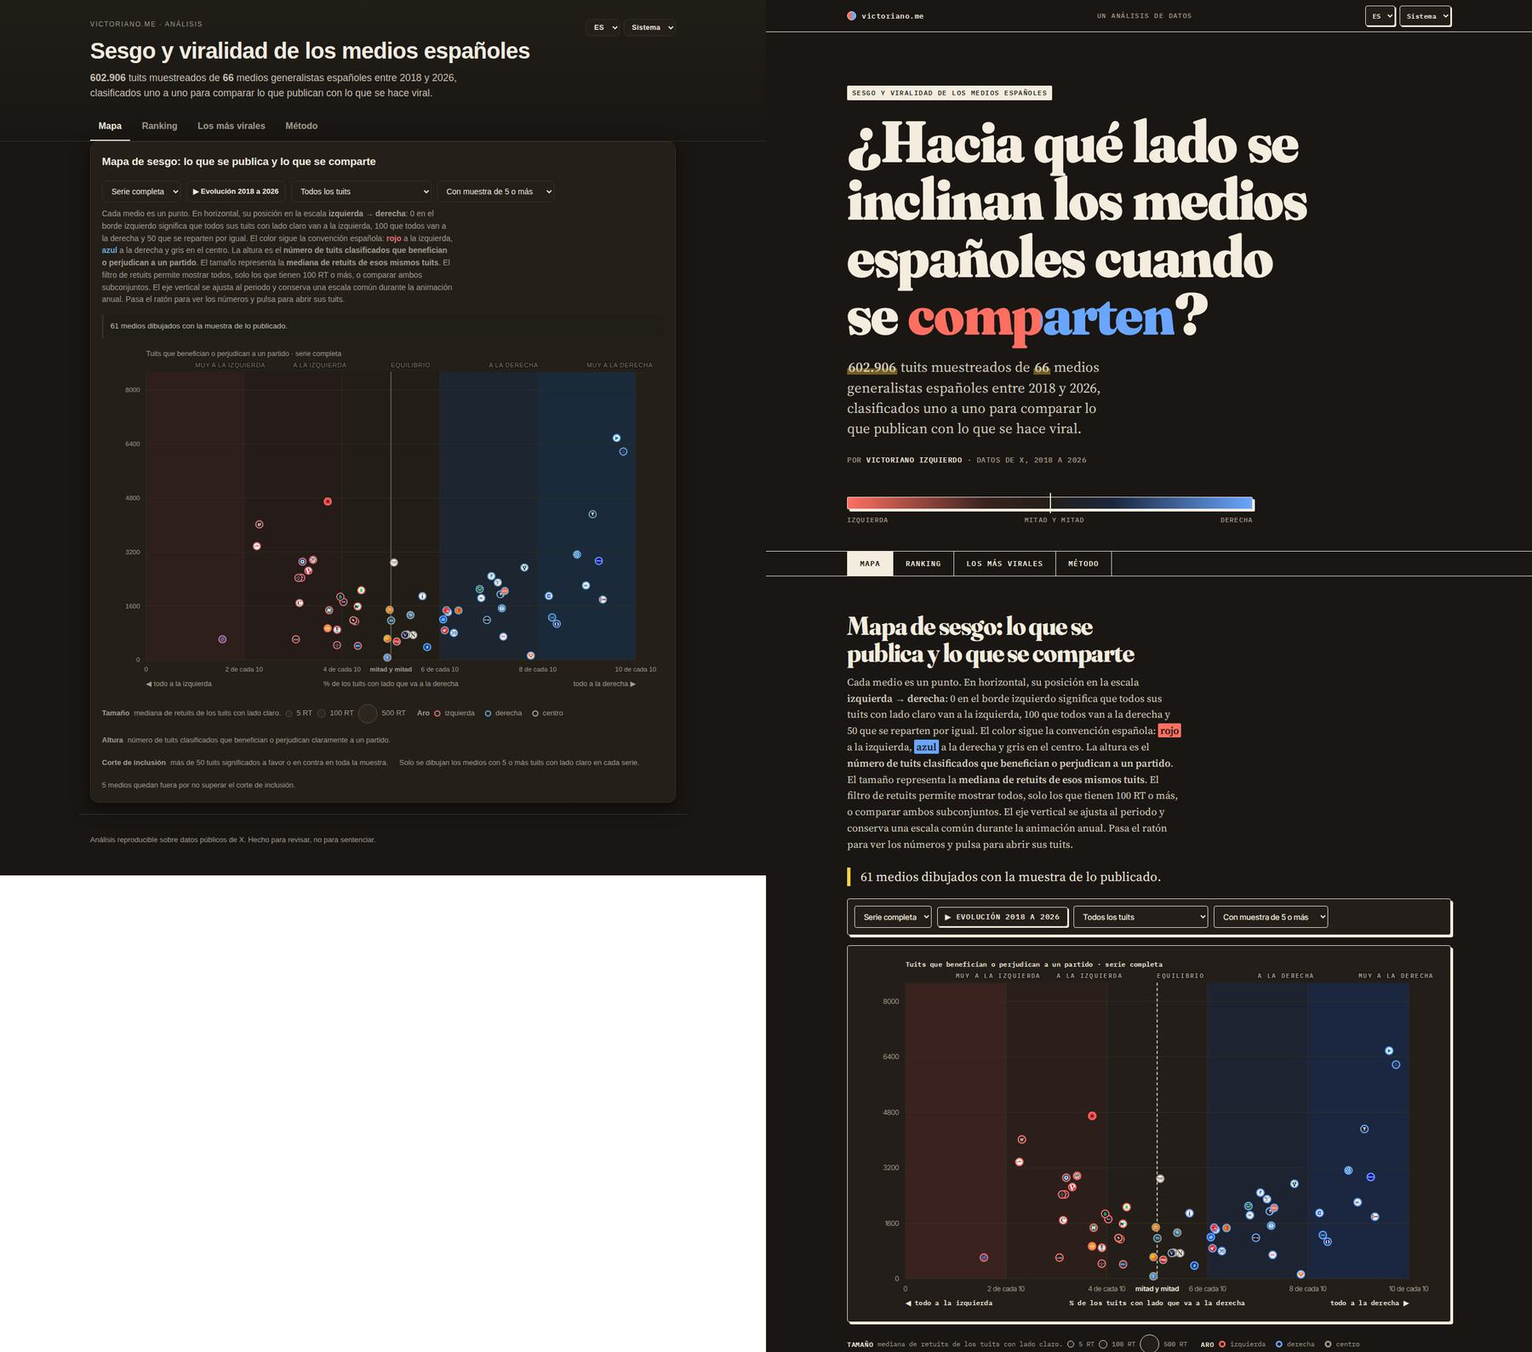
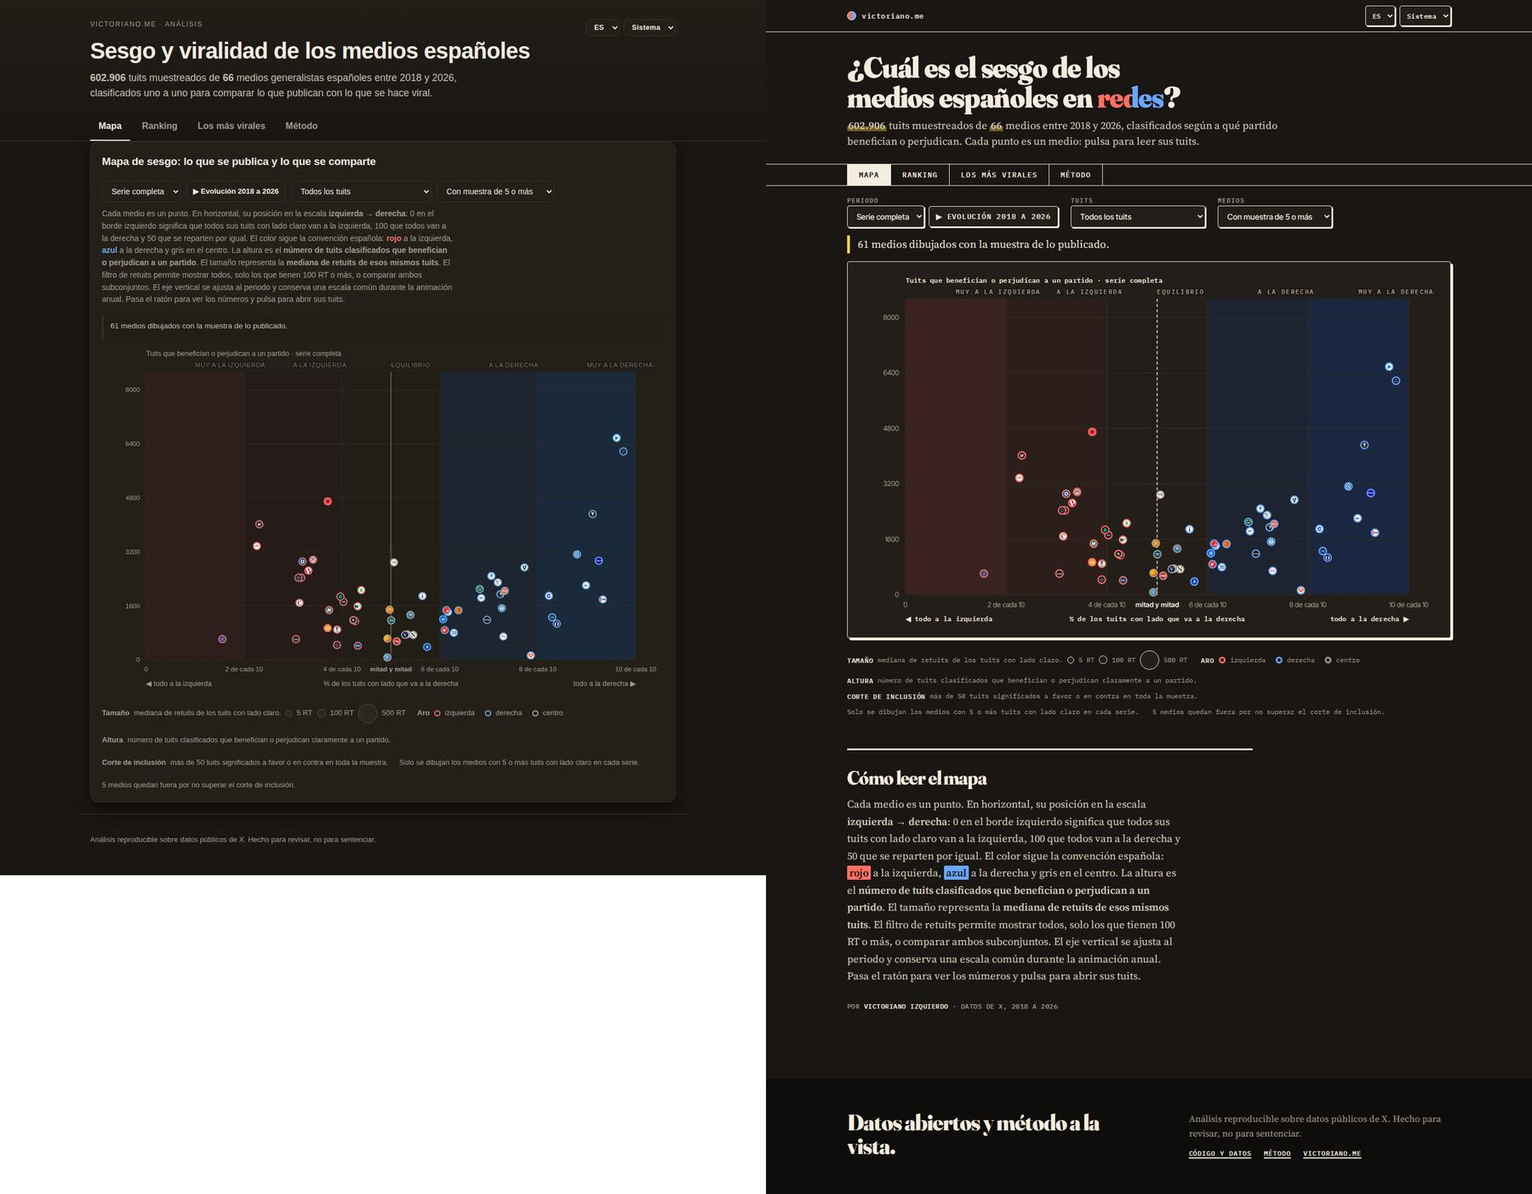
Poner el mapa arriba y simplificar la portada
Titular nuevo («¿Cuál es el sesgo de los medios españoles en redes?»),
portada compacta y el mapa justo debajo de la navegación, con sus
controles etiquetados. La explicación del mapa pasa debajo de la gráfica.
El botón de volver regresa a la vista desde la que se abrió el medio y en
móvil el mapa se abre centrado.

Claude-Session: https://claude.ai/code/session_01NCLMM52ZhGMMAiz7yiGyxW

diff --git a/site/index.html b/site/index.html
@@ -35,13 +35,12 @@
 <link rel="icon" href="favicon.svg" type="image/svg+xml">
 <link rel="preload" href="fonts/fraunces-normal-400-900.woff2" as="font" type="font/woff2" crossorigin>
 <link rel="stylesheet" href="fonts.css?v=202610051200">
-<link rel="stylesheet" href="styles.css?v=202610051200">
+<link rel="stylesheet" href="styles.css?v=202610051330">
 </head>
 <body>
 <header class="mast">
   <div class="wrap mast-bar">
     <a class="marca" href="https://victoriano.me">victoriano.me</a>
-    <p class="kicker" data-i18n="kicker">victoriano.me · análisis</p>
     <div class="prefs" role="group">
       <label class="sr-only" for="lang-select" data-i18n="ariaLang">Idioma</label>
       <select id="lang-select" class="pref-select" data-i18n-aria="ariaLang" aria-label="Idioma">
@@ -60,14 +59,8 @@
 
 <section class="hero">
   <div class="wrap">
-    <p class="kicker"><span data-i18n="heroTag">Medios y redes</span></p>
-    <h1 data-i18n-html="headline">Sesgo y viralidad de los medios españoles</h1>
-    <p class="lede" id="lede"><strong id="n-virales">602.906</strong> tuits muestreados de <strong id="n-medios">66</strong> medios generalistas españoles entre 2018 y 2026, clasificados uno a uno para comparar lo que publican con lo que se hace viral.</p>
-    <p class="byline" data-i18n-html="byline">Por <strong>Victoriano Izquierdo</strong> · Datos de X, 2018 a 2026</p>
-    <div class="espectro" aria-hidden="true">
-      <div class="espectro-barra"></div>
-      <div class="espectro-pie"><span data-i18n="espectroIzq">Izquierda</span><span data-i18n="espectroMitad">Mitad y mitad</span><span data-i18n="espectroDer">Derecha</span></div>
-    </div>
+    <h1 data-i18n-html="headline">¿Cuál es el sesgo de los medios españoles en redes?</h1>
+    <p class="lede" id="lede"><strong id="n-virales">602.906</strong> tuits muestreados de <strong id="n-medios">66</strong> medios entre 2018 y 2026, clasificados según a qué partido benefician o perjudican. Cada punto es un medio: pulsa para leer sus tuits.</p>
   </div>
 </section>
 
@@ -118,16 +111,9 @@
 
   <!-- ============ MAPA ============ -->
   <section id="view-mapa" class="view">
-    <div class="panel">
-      <div class="panel-head">
-        <h2 data-i18n="mapaTitle">Mapa de sesgo: lo que se publica y lo que se comparte</h2>
-      </div>
-      <p class="hint" data-i18n-html="mapaHint">
-        Cada medio es un punto. En horizontal, su posición en la escala <strong>izquierda → derecha</strong>: 0 en el borde izquierdo significa que todos sus tuits con lado claro van a la izquierda, 100 que todos van a la derecha y 50 que se reparten por igual. El color sigue la convención española: <span class="rojo">rojo</span> a la izquierda, <span class="azul">azul</span> a la derecha y gris en el centro. La altura es el <strong>número de tuits clasificados que benefician o perjudican a un partido</strong>. El tamaño representa la <strong>mediana de retuits de esos mismos tuits</strong>. El filtro de retuits permite mostrar todos, solo los que tienen 100 RT o más, o comparar ambos subconjuntos. El eje vertical se ajusta al periodo y conserva una escala común durante la animación anual. Pasa el ratón para ver los números y pulsa para abrir sus tuits.
-      </p>
-      <p class="resumen" id="mapa-resumen"></p>
+    <div class="panel panel-mapa">
       <div class="panel-controles">
-          <select id="mapa-periodo" data-i18n-aria="ariaPeriodo" aria-label="Periodo de la serie histórica">
+        <div class="ctl"><span class="ctl-k" data-i18n="ctlPeriodo">Periodo</span><div class="ctl-v"><select id="mapa-periodo" data-i18n-aria="ariaPeriodo" aria-label="Periodo de la serie histórica">
             <option value="todo" selected data-i18n="mapaPeriodoAll">Serie completa</option>
             <option value="xv" data-i18n="mapaPeriodoXV">XV Legislatura</option>
             <option value="2018">2018</option>
@@ -140,30 +126,38 @@
             <option value="2025">2025</option>
             <option value="2026">2026</option>
           </select>
-          <button type="button" id="mapa-play" class="mapa-play" data-i18n-aria="ariaPlay" aria-label="Reproducir evolución anual">▶ Evolución 2018 a 2026</button>
-          <select id="mapa-serie" data-i18n-aria="ariaSerie" aria-label="Filtro de retuits del mapa">
+        <button type="button" id="mapa-play" class="mapa-play" data-i18n-aria="ariaPlay" aria-label="Reproducir evolución anual">▶ Evolución 2018 a 2026</button></div></div>
+        <label class="ctl"><span class="ctl-k" data-i18n="ctlTuits">Tuits</span><select id="mapa-serie" data-i18n-aria="ariaSerie" aria-label="Filtro de retuits del mapa">
             <option value="ambas" data-i18n="mapaSerieAmbas">Comparar todos y 100 RT o más</option>
             <option value="publicado" selected data-i18n="mapaSeriePub">Todos los tuits</option>
             <option value="viral" data-i18n="mapaSerieViral">100 RT o más</option>
-          </select>
-          <select id="mapa-filtro" data-i18n-aria="ariaFiltro" aria-label="Filtrar por tamaño de muestra">
+          </select></label>
+        <label class="ctl"><span class="ctl-k" data-i18n="ctlMuestra">Medios</span><select id="mapa-filtro" data-i18n-aria="ariaFiltro" aria-label="Filtrar por tamaño de muestra">
             <option value="5" selected data-i18n="mapaFiltro5">Con muestra de 5 o más</option>
             <option value="0" data-i18n="mapaFiltro0">Todos los medios</option>
             <option value="15" data-i18n="mapaFiltro15">Con muestra de 15 o más</option>
             <option value="30" data-i18n="mapaFiltro30">Con muestra de 30 o más</option>
-          </select>
-        </div>
+          </select></label>
+      </div>
+      <p class="resumen" id="mapa-resumen"></p>
       <div class="chart-wrap">
         <svg id="mapa" role="img" data-i18n-aria="ariaMapDesc" aria-label="Dispersión de medios por posición en la escala izquierda-derecha, con lo publicado y lo viral y una flecha hacia donde se desplaza cada medio al compartirse"></svg>
         <div class="tip" id="mapa-tip" hidden></div>
       </div>
       <div class="mapa-pie" id="mapa-pie"></div>
     </div>
+    <div class="panel prose historia">
+      <h2 data-i18n="mapaTitle">Cómo leer el mapa</h2>
+      <p class="hint" data-i18n-html="mapaHint">
+        Cada medio es un punto. En horizontal, su posición en la escala <strong>izquierda → derecha</strong>: 0 en el borde izquierdo significa que todos sus tuits con lado claro van a la izquierda, 100 que todos van a la derecha y 50 que se reparten por igual. El color sigue la convención española: <span class="rojo">rojo</span> a la izquierda, <span class="azul">azul</span> a la derecha y gris en el centro. La altura es el <strong>número de tuits clasificados que benefician o perjudican a un partido</strong>. El tamaño representa la <strong>mediana de retuits de esos mismos tuits</strong>. El filtro de retuits permite mostrar todos, solo los que tienen 100 RT o más, o comparar ambos subconjuntos. El eje vertical se ajusta al periodo y conserva una escala común durante la animación anual. Pasa el ratón para ver los números y pulsa para abrir sus tuits.
+      </p>
+      <p class="byline" data-i18n-html="byline">Por <strong>Victoriano Izquierdo</strong> · Datos de X, 2018 a 2026</p>
+    </div>
   </section>
 
   <!-- ============ MEDIO ============ -->
   <section id="view-medio" class="view" hidden>
-    <button class="back" id="back" data-i18n="backRanking">← Volver al ranking</button>
+    <button class="back" id="back" data-i18n="backRanking">← Volver</button>
     <div class="panel" id="medio-panel"></div>
   </section>
 
@@ -229,6 +223,6 @@
   </div>
 </footer>
 
-<script src="app.js?v=202610051200"></script>
+<script src="app.js?v=202610051330"></script>
 </body>
 </html>

diff --git a/site/styles.css b/site/styles.css
@@ -77,35 +77,19 @@ a:hover{background:var(--hl);color:var(--hl-ink)}
   font:600 12px/1 var(--f-mono);letter-spacing:.04em;cursor:pointer;box-shadow:var(--sombra-s)}
 .pref-select:hover{background:var(--hl);color:var(--hl-ink)}
 
-/* ---------- portada ---------- */
-.hero{padding:clamp(40px,7vw,96px) 0 clamp(28px,4vw,48px)}
-.hero .kicker{margin-bottom:22px}
-.hero .kicker span{display:inline-block;background:var(--ink);color:var(--bg);padding:5px 9px;border-radius:2px}
-h1{margin:0 0 26px;font-family:var(--f-display);font-weight:900;font-size:clamp(42px,8.2vw,104px);line-height:.98;
-  letter-spacing:-.022em;word-spacing:.04em;font-variation-settings:"opsz" 144,"SOFT" 50;max-width:13ch;text-wrap:balance}
-/* la palabra que se comparte, partida en rojo y azul */
+/* ---------- portada ----------
+   Compacta a propósito: quien abre el enlace tiene que ver el mapa sin hacer scroll. */
+.hero{padding:clamp(22px,3vw,36px) 0 clamp(18px,2.4vw,26px)}
+h1{margin:0 0 10px;font-family:var(--f-display);font-weight:900;font-size:clamp(28px,4.2vw,52px);line-height:1.02;
+  letter-spacing:-.022em;word-spacing:.04em;font-variation-settings:"opsz" 144,"SOFT" 50;max-width:24ch;text-wrap:balance}
+/* la palabra clave, partida en rojo y azul como el eje del mapa */
 h1 .t-mix{background:linear-gradient(90deg,var(--map-izq) 0 50%,var(--map-der) 50% 100%);
   -webkit-background-clip:text;background-clip:text;color:transparent;white-space:nowrap}
-.lede{margin:0 0 28px;max-width:38ch;color:var(--lede-fg);font:400 clamp(19px,2.1vw,25px)/1.45 var(--f-serif)}
+.lede{margin:0;max-width:92ch;color:var(--lede-fg);font:400 clamp(16px,1.5vw,18.5px)/1.5 var(--f-serif)}
 .lede strong{font-weight:600;background:linear-gradient(transparent 58%,var(--hl) 58%,var(--hl) 92%,transparent 92%);color:inherit;padding:0 2px}
 :root[data-theme="dark"] .lede strong{background:linear-gradient(transparent 58%,rgba(255,210,63,.38) 58%,rgba(255,210,63,.38) 92%,transparent 92%)}
-.byline{margin:0;font:500 12.5px/1.6 var(--f-mono);letter-spacing:.04em;color:var(--muted);text-transform:uppercase}
+.byline{margin:28px 0 0;font:500 12px/1.6 var(--f-mono);letter-spacing:.04em;color:var(--muted);text-transform:uppercase}
 .byline strong{color:var(--ink);font-weight:600}
-
-/* fuera del mapa la portada se queda en una cabecera compacta */
-body[data-view]:not([data-view="mapa"]) .hero{padding:28px 0 26px}
-body[data-view]:not([data-view="mapa"]) .hero h1{font-size:clamp(28px,3.6vw,40px);max-width:none;margin-bottom:0}
-body[data-view]:not([data-view="mapa"]) .hero .kicker{margin-bottom:12px}
-body[data-view]:not([data-view="mapa"]) :is(.lede,.byline,.espectro){display:none}
-
-/* la franja de espectro de la portada: el eje del mapa en miniatura */
-.espectro{margin:clamp(30px,5vw,56px) 0 0;max-width:720px}
-.espectro-barra{position:relative;height:22px;border:1.5px solid var(--rule);border-radius:2px;
-  background:linear-gradient(90deg,var(--map-izq) 0%,var(--zona-miz) 34%,var(--zona-eq) 50%,var(--zona-mdr) 66%,var(--map-der) 100%);
-  box-shadow:var(--sombra)}
-.espectro-barra::after{content:"";position:absolute;left:50%;top:-8px;bottom:-8px;width:1.5px;background:var(--rule)}
-.espectro-pie{display:flex;justify-content:space-between;margin-top:12px;font:500 11.5px/1.2 var(--f-mono);
-  letter-spacing:.1em;text-transform:uppercase;color:var(--muted)}
 
 /* ---------- navegación ---------- */
 .nav{position:sticky;top:0;z-index:20;background:var(--bg);border-top:1.5px solid var(--rule);border-bottom:1.5px solid var(--rule)}
@@ -113,11 +97,13 @@ body[data-view]:not([data-view="mapa"]) :is(.lede,.byline,.espectro){display:non
 .tabs::-webkit-scrollbar{display:none}
 .tab{appearance:none;border:0;border-right:1.5px solid var(--rule);background:transparent;padding:15px 22px;
   font:600 13px/1 var(--f-mono);letter-spacing:.08em;text-transform:uppercase;color:var(--ink);cursor:pointer;white-space:nowrap}
+.nav .tab{padding:12px 20px}
 .tab:first-child{border-left:1.5px solid var(--rule)}
 .tab:hover{background:var(--hl);color:var(--hl-ink)}
 .tab.is-on{background:var(--ink);color:var(--bg)}
 
-main.wrap{padding-top:clamp(36px,5vw,64px);padding-bottom:80px}
+main.wrap{padding-top:clamp(28px,4vw,48px);padding-bottom:80px}
+body[data-view="mapa"] main.wrap,body:not([data-view]) main.wrap{padding-top:20px}
 .view[hidden]{display:none}
 
 /* ---------- cifras de cabecera del ranking ---------- */
@@ -240,8 +226,15 @@ td.c-dec{min-width:210px}
 
 /* ---------- mapa de dispersión ---------- */
 #view-mapa .panel-head{margin-bottom:0}
-#view-mapa .panel-controles{margin:0 0 18px;padding:12px;background:var(--panel);border:1.5px solid var(--rule);border-radius:var(--radio);box-shadow:var(--sombra)}
-#view-mapa .panel-controles select{box-shadow:none}
+#view-mapa .panel-controles{margin:0 0 14px;gap:10px 22px;align-items:flex-end}
+.ctl{display:flex;flex-direction:column;gap:5px}
+.ctl-k{font:600 10.5px/1 var(--f-mono);letter-spacing:.1em;text-transform:uppercase;color:var(--muted)}
+.ctl-v{display:flex;gap:8px;align-items:center}
+.panel-mapa .mapa-play{padding:11px 12px}
+/* debajo del mapa va la explicación, para quien quiera leerla */
+.historia{margin-top:56px;padding-top:32px;border-top:3px solid var(--rule)}
+.historia h2{font-size:clamp(24px,3vw,34px)}
+.historia .hint{font-size:18.5px}
 .chart-wrap{position:relative;overflow-x:auto;margin:0 0 4px;padding:18px 18px 8px;background:var(--panel);
   border:1.5px solid var(--rule);border-radius:var(--radio);box-shadow:var(--sombra)}
 #mapa{display:block;width:100%;min-width:780px;height:auto;overflow:visible}
@@ -273,8 +266,8 @@ td.c-dec{min-width:210px}
 #mapa .etiquetas text{font-size:11px;font-weight:600;fill:var(--map-label);letter-spacing:.12em;text-transform:uppercase;
   paint-order:stroke;stroke:var(--map-label-stroke);stroke-width:4px;stroke-linejoin:round}
 /* la frase que resume el mapa, como titular de la gráfica */
-.resumen{margin:0 0 22px;padding:0 0 0 18px;border-left:6px solid var(--hl);
-  font:400 clamp(19px,2vw,23px)/1.45 var(--f-serif);color:var(--ink);max-width:60ch}
+.resumen{margin:0 0 14px;padding:2px 0 2px 14px;border-left:5px solid var(--hl);
+  font:400 clamp(16px,1.6vw,19px)/1.45 var(--f-serif);color:var(--ink);max-width:60ch}
 .resumen:empty{display:none}
 .tip{position:absolute;z-index:6;pointer-events:none;background:var(--tip-bg);color:var(--tip-fg);border-radius:var(--radio);
   border:1.5px solid var(--rule);padding:11px 13px;font:400 13px/1.45 var(--f-sans);box-shadow:var(--sombra);
@@ -321,7 +314,10 @@ td.c-dec{min-width:210px}
 }
 @media (max-width:640px){
   .wrap{padding:0 16px}
-  .mast .kicker{display:none}
+  .panel-mapa .panel-controles{display:grid;grid-template-columns:1fr 1fr;gap:10px}
+  .panel-mapa .ctl:first-child{grid-column:1/-1}
+  .panel-mapa .ctl select{width:100%}
+  .panel-mapa .ctl-v select{width:auto;flex:1}
   .tab{padding:13px 15px;font-size:12px}
   .lede{font-size:19px}
   .hint{font-size:17px}
@@ -331,6 +327,7 @@ td.c-dec{min-width:210px}
   .card:nth-child(even){padding-right:0}
   .cards-list{grid-template-columns:1fr}
   .chart-wrap{padding:12px 10px 6px;margin:0 -4px 4px}
+  #mapa{min-width:640px}
   input[type=search]{min-width:0;width:100%}
   table.rank{min-width:0}
   table.rank .c-izq,table.rank .c-der,table.rank .c-rt{display:none}
@@ -344,3 +341,4 @@ td.c-dec{min-width:210px}
 @media (prefers-reduced-motion: reduce){
   *{transition:none !important}
 }
+.prose .byline{font:500 12px/1.6 var(--f-mono);color:var(--muted)}

diff --git a/site/app.js b/site/app.js
@@ -17,13 +17,10 @@ const I18N = {
     ogTitle: 'Sesgo y viralidad de los medios españoles',
     ogDescription: '602.906 tuits de 66 medios entre 2018 y 2026, clasificados por partido y dirección, con comparación entre lo publicado y lo viral.',
     kicker: 'Un análisis de datos',
-    heroTag: 'Sesgo y viralidad de los medios españoles',
-    headline: '¿Hacia qué lado se inclinan los medios españoles cuando se <span class="t-mix">comparten</span>?',
+    headline: '¿Cuál es el sesgo de los medios españoles en <span class="t-mix">redes</span>?',
     byline: 'Por <strong>Victoriano Izquierdo</strong> · Datos de X, 2018 a 2026',
-    espectroIzq: 'Izquierda',
-    espectroMitad: 'Mitad y mitad',
-    espectroDer: 'Derecha',
-    lede: (nVirales, nMedios) => `<strong id="n-virales">${nVirales}</strong> tuits muestreados de <strong id="n-medios">${nMedios}</strong> medios generalistas españoles entre 2018 y 2026, clasificados uno a uno para comparar lo que publican con lo que se hace viral.`,
+
+    lede: (nVirales, nMedios) => `<strong id="n-virales">${nVirales}</strong> tuits muestreados de <strong id="n-medios">${nMedios}</strong> medios entre 2018 y 2026, clasificados según a qué partido benefician o perjudican. Cada punto es un medio: pulsa para leer sus tuits.`,
     tabMapa: 'Mapa',
     tabRanking: 'Ranking',
     tabTop: 'Los más virales',
@@ -63,7 +60,10 @@ const I18N = {
     beneficia: 'beneficia',
     perjudica: 'perjudica',
     neutro: 'neutro',
-    mapaTitle: 'Mapa de sesgo: lo que se publica y lo que se comparte',
+    mapaTitle: 'Cómo leer el mapa',
+    ctlPeriodo: 'Periodo',
+    ctlTuits: 'Tuits',
+    ctlMuestra: 'Medios',
     mapaPeriodoAll: 'Serie completa',
     mapaPeriodoXV: 'XV Legislatura',
     mapaSerieAmbas: 'Comparar todos y 100 RT o más',
@@ -135,7 +135,7 @@ const I18N = {
     tipDesplaza: (pts, dir) => `Al compartirse se desplaza ${pts} puntos hacia la ${dir}.`,
     tipRtMedia: 'mediana de retuits',
     tipIndiceMuestra: 'índice de la muestra completa',
-    backRanking: '← Volver al ranking',
+    backRanking: '← Volver',
     medioLoading: 'Cargando tuits…',
     medioError: 'No se han podido cargar sus tuits. Prueba otra vez.',
     medioMuestreados: 'tuits muestreados',
@@ -243,13 +243,10 @@ const I18N = {
     ogTitle: 'Bias and virality of Spanish media',
     ogDescription: '602,906 tweets from 66 outlets between 2018 and 2026, classified by party and direction, comparing published and viral.',
     kicker: 'A data analysis',
-    heroTag: 'Bias and virality of Spanish media',
-    headline: 'Which way do Spanish media lean when they get <span class="t-mix">shared</span>?',
+    headline: 'What is the bias of Spanish media on <span class="t-mix">social media</span>?',
     byline: 'By <strong>Victoriano Izquierdo</strong> · X data, 2018 to 2026',
-    espectroIzq: 'Left',
-    espectroMitad: 'Half and half',
-    espectroDer: 'Right',
-    lede: (nVirales, nMedios) => `<strong id="n-virales">${nVirales}</strong> sampled tweets from <strong id="n-medios">${nMedios}</strong> Spanish general-interest media between 2018 and 2026, classified one by one to compare what they publish with what goes viral.`,
+
+    lede: (nVirales, nMedios) => `<strong id="n-virales">${nVirales}</strong> sampled tweets from <strong id="n-medios">${nMedios}</strong> outlets between 2018 and 2026, classified by which party they help or hurt. Each dot is an outlet: click it to read its tweets.`,
     tabMapa: 'Map',
     tabRanking: 'Ranking',
     tabTop: 'Most viral',
@@ -289,7 +286,10 @@ const I18N = {
     beneficia: 'benefits',
     perjudica: 'harms',
     neutro: 'neutral',
-    mapaTitle: 'Bias map: what gets published vs what gets shared',
+    mapaTitle: 'How to read the map',
+    ctlPeriodo: 'Period',
+    ctlTuits: 'Tweets',
+    ctlMuestra: 'Outlets',
     mapaPeriodoAll: 'Full series',
     mapaPeriodoXV: 'XV Legislature',
     mapaSerieAmbas: 'Compare all and 100+ RT',
@@ -361,7 +361,7 @@ const I18N = {
     tipDesplaza: (pts, dir) => `Shifts ${pts} points toward the ${dir} when shared.`,
     tipRtMedia: 'median retweets',
     tipIndiceMuestra: 'full sample index',
-    backRanking: '← Back to ranking',
+    backRanking: '← Back',
     medioLoading: 'Loading tweets…',
     medioError: 'Could not load its tweets. Please try again.',
     medioMuestreados: 'sampled tweets',
@@ -543,7 +543,9 @@ function prefetchMedio(meta) {
 const VIEWS = ['ranking', 'mapa', 'medio', 'top', 'metodo'];
 const PERIODOS_VALIDOS = ['todo', 'xv', '2018', '2019', '2020', '2021', '2022', '2023', '2024', '2025', '2026'];
 let currentView = 'mapa';
+let vistaPrevia = 'mapa';
 function show(v) {
+  if (v === 'medio' && currentView !== 'medio') vistaPrevia = currentView;
   currentView = v;
   document.body.dataset.view = v;
   if (v !== 'mapa') pararEvolucion();
@@ -777,7 +779,7 @@ function pintarMedio(meta) {
     </div>
     <div id="mlist" class="cards-list"></div>
     <button class="more" id="mmore" hidden>${t('loadMoreN', 0)}</button>`;
-  $('#back').onclick = () => { location.hash = '#/ranking'; };
+  $('#back').onclick = () => { location.hash = vistaPrevia === 'ranking' ? '#/ranking' : '#/mapa' + hashPeriodo(); };
   $('#mt').value = mText;
   $('#ms').value = mSort;
   $('#mt').addEventListener('input', e => { mText = e.target.value; mShown = PAGE; pintarListaMedio(); });
@@ -1370,5 +1372,8 @@ function watchSystemTheme() {
   const h = decodeURIComponent(location.hash.replace(/^#\/?/, ''));
   if (h === 'top') { await cargarTop(); }
   route();
+  // en pantallas estrechas el mapa se desplaza en horizontal: se abre centrado en el equilibrio
+  const cw = $('.chart-wrap');
+  if (cw && cw.scrollWidth > cw.clientWidth) cw.scrollLeft = (cw.scrollWidth - cw.clientWidth) / 2;
 })();
 window.addEventListener('hashchange', () => { if (location.hash.includes('top')) cargarTop(); });

diff --git a/scripts/check_site.py b/scripts/check_site.py
@@ -442,7 +442,7 @@ async def main():
             await pg.select_option("#mapa-serie", valor)
             await pg.wait_for_timeout(600)
             await pg.screenshot(path=f"{MAPOUT}/{i}-{nombre}.png", full_page=True)
-            await pg.locator("#view-mapa .panel").screenshot(path=f"{MAPOUT}/panel-{nombre}.png")
+            await pg.locator("#view-mapa .panel-mapa").screenshot(path=f"{MAPOUT}/panel-{nombre}.png")
         estados = {}
         for valor in ["publicado", "viral", "ambas"]:
             await pg.select_option("#mapa-serie", valor)
